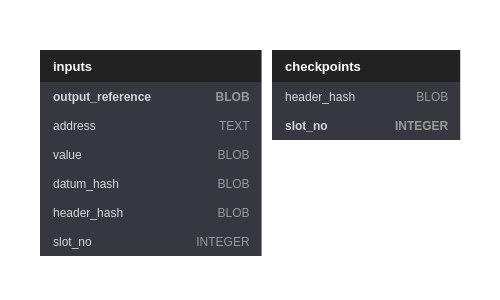
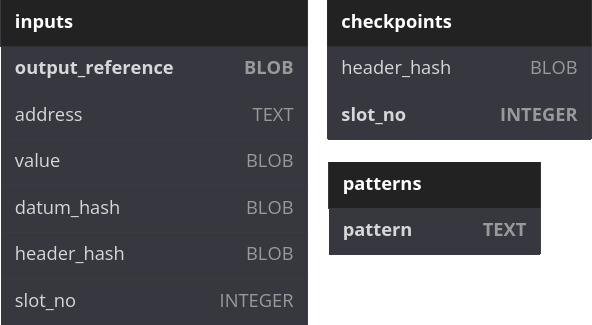
Do not match on failed Alonzo transactions.

diff --git a/db/README.md b/db/README.md
@@ -1,5 +1,21 @@
----
-version: 2
----
+## Current Version
+
+**4**
+
+## Overview
 
 <p align="center"><img src="schema.png" alt="database schema" /></p>
+
+## Changelog
+
+### Migration to `version=4`
+
+- Removes all matches of mainnet & testnet transactions that failed phase-2 validations and consumed collaterals. 
+
+### Migration to `version=3`
+
+- Add a new `patterns` table to support (a) persisting patterns configuration and (b) managing patterns dynamically via HTTP.
+
+### Migration to `version=2`
+
+- Add a new `header_hash` column to the inputs table (to associate matches with fully qualified points made of slot and block header hash). 
